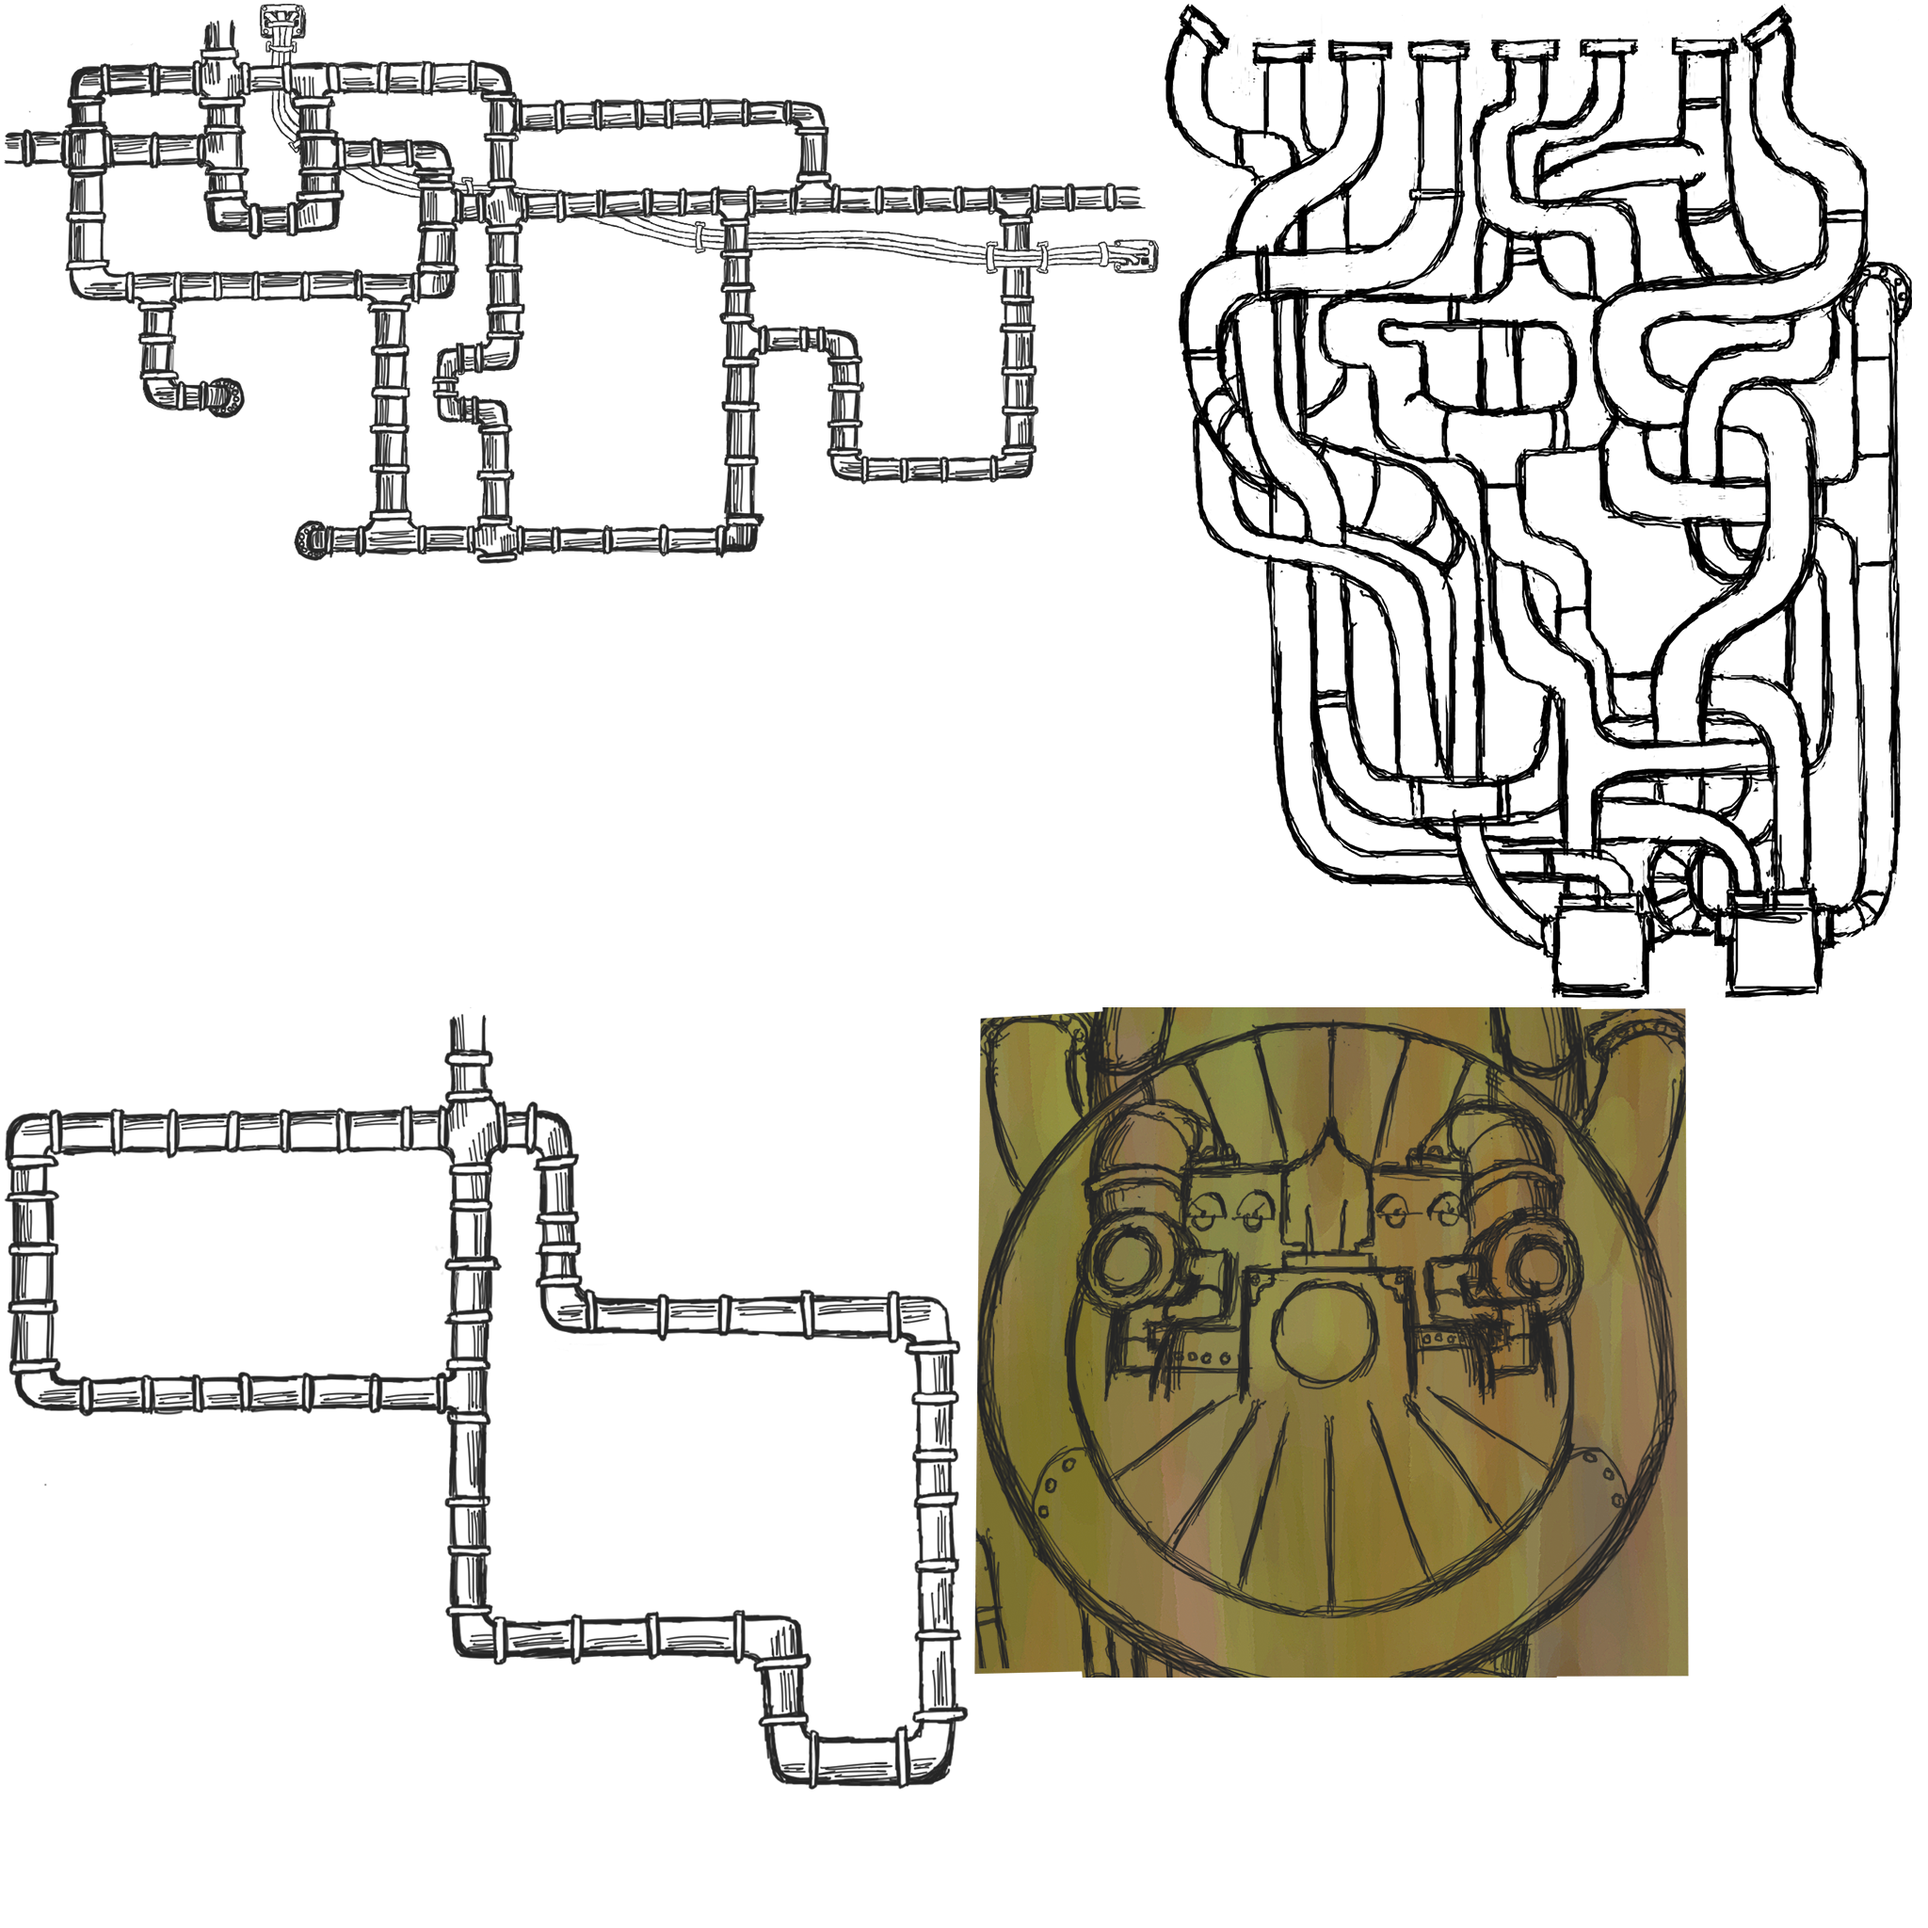
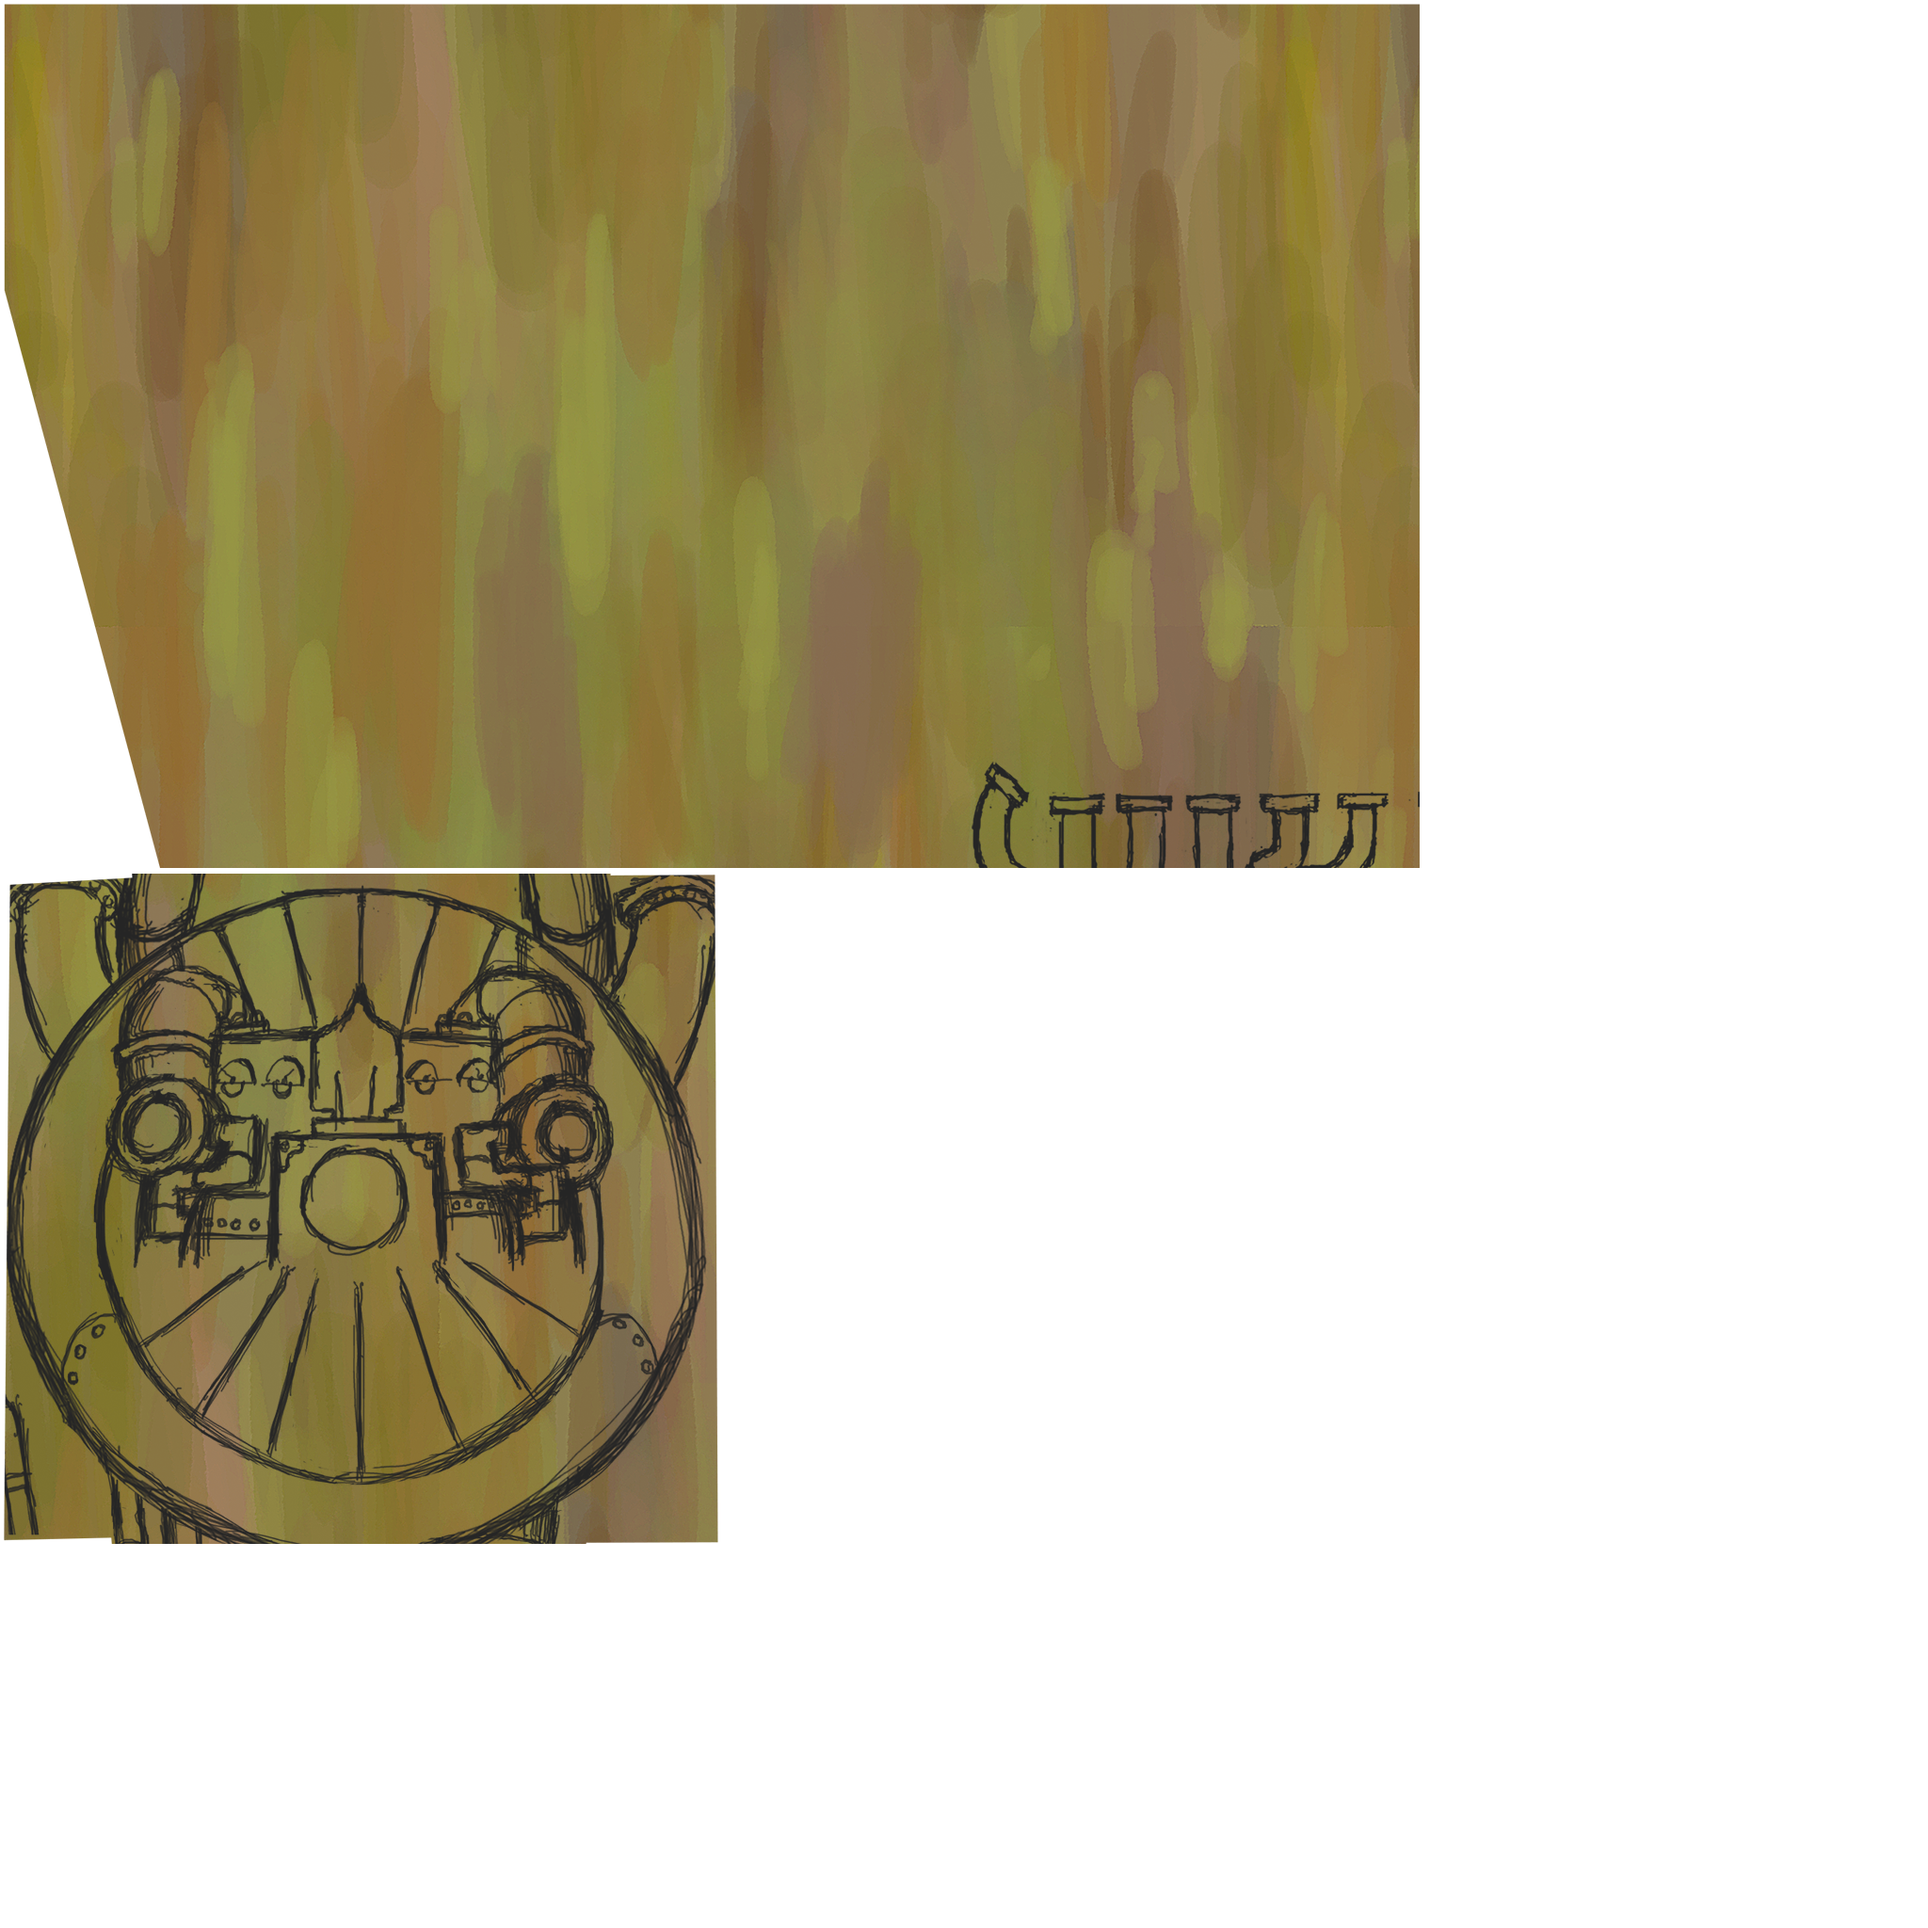
Chest optimized

diff --git a/werescrewed/src/com/blindtigergames/werescrewed/screens/AlphaScreen.java b/werescrewed/src/com/blindtigergames/werescrewed/screens/AlphaScreen.java
@@ -1133,9 +1133,9 @@ public class AlphaScreen extends Screen {
 		float scale = 1f / 0.75f;
 		Skeleton chestSkeleton = ( Skeleton ) LevelFactory.entities
 				.get( "chestSkeleton" );
-		chestSkeleton.addBGDecal( Sprite.scale( chestEnginePipes
-				.createSprite( "chest_powerswitches_pipestoengine" ), scale ),
-				new Vector2( -732, -1300 ) );// -52,-346
+//		chestSkeleton.addBGDecal( Sprite.scale( chestEnginePipes
+//				.createSprite( "chest_powerswitches_pipestoengine" ), scale ),
+//				new Vector2( -732, -1300 ) );// -52,-346
 
 		TextureAtlas chest_lower, chest_middle, chest_upper1, chest_upper2;
 		chest_lower = WereScrewedGame.manager.getAtlas( "chest_exterior_lower" );
@@ -1198,7 +1198,7 @@ public class AlphaScreen extends Screen {
 		// INTERIOR DECALS
 
 		// chest_bottomleft_mechanisms75
-		TextureAtlas chest_gear = WereScrewedGame.manager
+		/*TextureAtlas chest_gear = WereScrewedGame.manager
 				.getAtlas( "chest_pipes_thigh_pipes" );
 		chestSkeleton.addBGDecal(
 				chest_gear.createSprite( "chest_bottomleft_mechanisms75" ),
@@ -1217,8 +1217,20 @@ public class AlphaScreen extends Screen {
 				.addBGDecalBack(
 						Sprite.scale( chest_interiorAtlas
 								.createSprite( "upper-right-chest" ), scale ),
-						new Vector2( 370, -117 ).add( chestPipesRightPos ) );
-
+						new Vector2( 370, -117 ).add( chestPipesRightPos ) );*/
+		
+		Vector2 chestInerdsPos = new Vector2(-2300,-90);
+		scale = 1f/.66f;
+		TextureAtlas chest1 = WereScrewedGame.manager.getAtlas( "knee_chest_in" );
+		chestSkeleton.addBGDecal( Sprite.scale(chest1.createSprite( "chest1" ),scale), chestInerdsPos.cpy() );
+		TextureAtlas chest23 = WereScrewedGame.manager.getAtlas( "chest2" );
+		chestSkeleton.addBGDecal( Sprite.scale(chest23.createSprite( "chest2" ),scale), chestInerdsPos.cpy().add( 2278,0 ) );
+		chestSkeleton.addBGDecal( Sprite.scale(chest23.createSprite( "chest3" ),scale),chestInerdsPos.cpy().add( -365,-1614 ) );
+		
+		TextureAtlas chest4 = WereScrewedGame.manager.getAtlas( "head_right" );
+		chestSkeleton.addBGDecal( Sprite.scale(chest4.createSprite( "chest4" ),scale), chestInerdsPos.cpy().add(2278-365,-1614) );
+		chestSkeleton.bgSprite = null;
+		
 		// TextureAtlas chest2 = WereScrewedGame.manager.getAtlas("chest2");
 		// s = chest2.createSprite(
 		// "chest_upperleftandtop_mechanismS_ROUGHwithnotes" );
